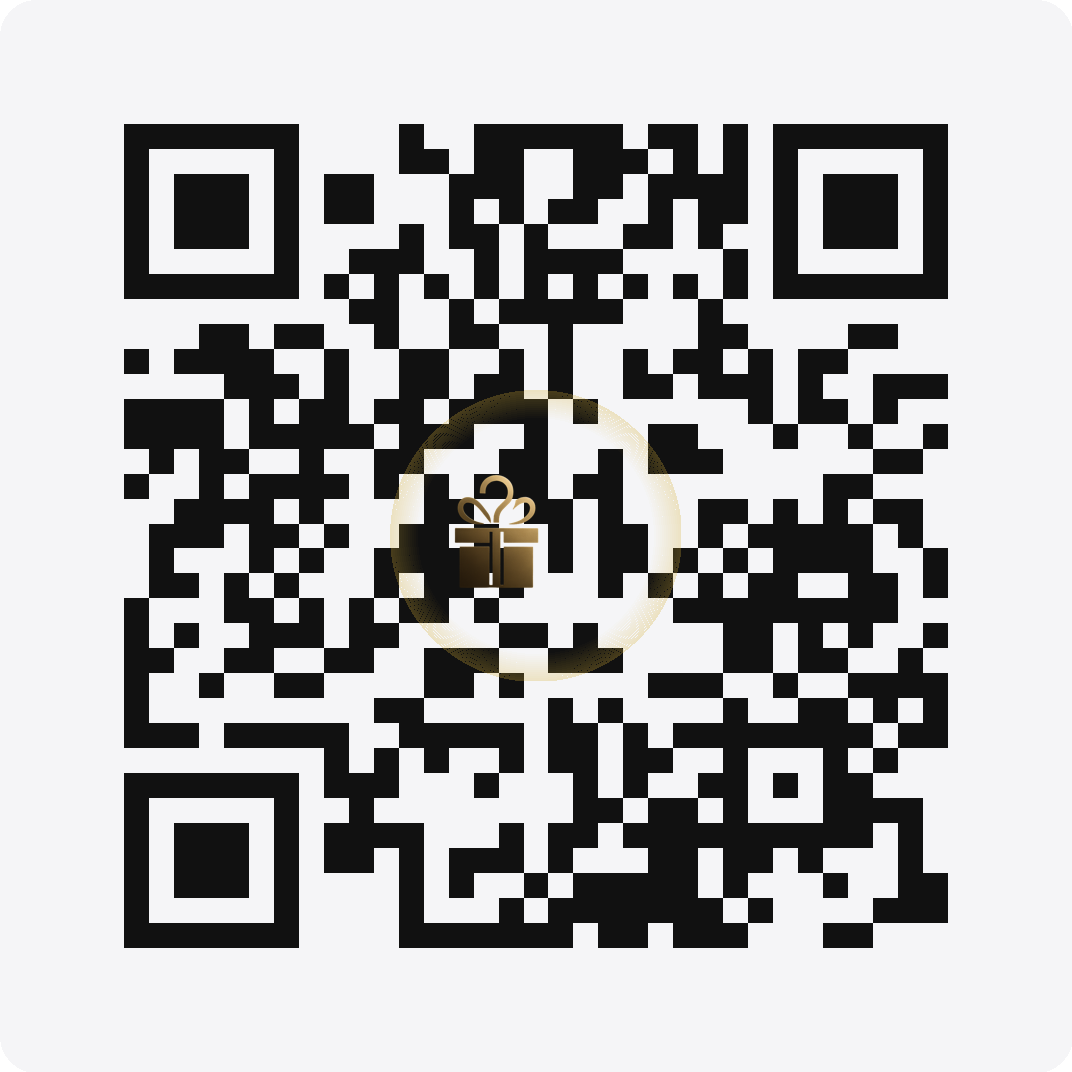
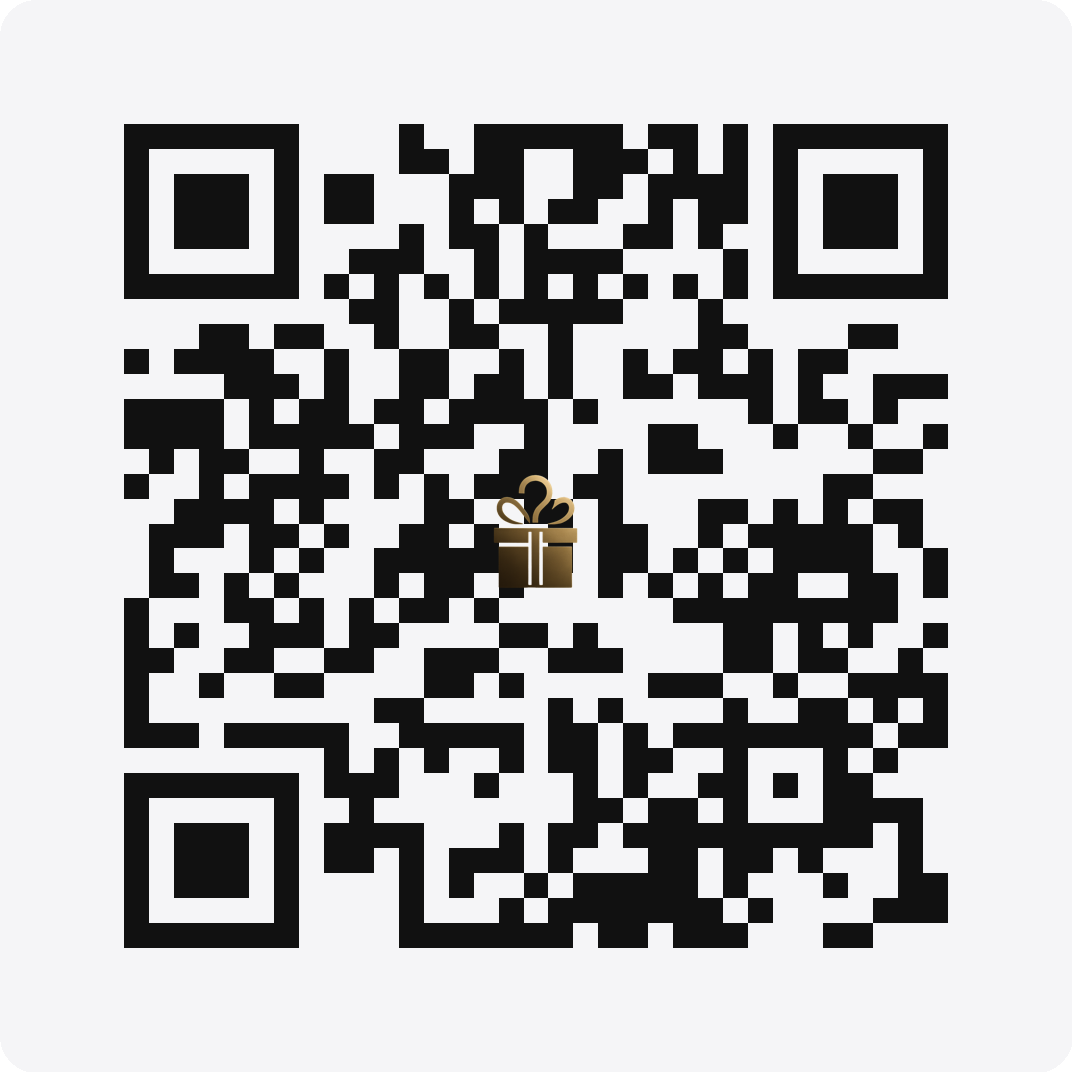
QR maps + /c routes

diff --git a/tools/qr_generator/make_qrs_styled.py b/tools/qr_generator/make_qrs_styled.py
@@ -5,38 +5,34 @@
 # Erzeugt QR-Codes im Dark-Style:
 # - Variante A: Standard (dunkel auf hell) + HALO (heller Freisteller) für dunkle Hintergründe
 # - Variante B: ECHT invertiert (hell auf dunkel) – mit Hinweis: weniger robust
-# - Logo: freigestellt/transparent, mittig (kein Teller) + optional goldener Glow
+# - Logo: freigestellt/transparent, mittig (kein Teller)
 #
-# Usage:
-# python make_qrs_styled.py --map qr_map_dark.json --out qr_out_dark_theme \
-#   --fg "#111111" --bg "#f5f5f7" --halo 24 --halo-color "#f5f5f7" \
-#   --logo "assets/tmc_logo.png" --logo-scale 0.22 --size 1024 --border 4
+# Usage-Beispiele siehe README / Befehlszeilen-Flags unten.
 
 import os, json
 from PIL import Image, ImageDraw, ImageOps
 import qrcode
 from qrcode.constants import ERROR_CORRECT_H
 
-# ---------- Standard-Konfiguration ----------
+# ---------- Konfiguration ----------
 DEFAULTS = {
     "out_dir": "qr_out_dark",
-    "size_px": 1024,           # Endgröße in Pixel
-    "box_size": 20,            # QR-Modulgröße
+    "size_px": 1024,           # endgültige Kantenlänge
+    "box_size": 20,            # QR-Modulgröße (wird von qrcode verwendet)
     "border": 4,               # Ruhezone (in Modulen)
     "error_correction": ERROR_CORRECT_H,
     # Farben
-    "fg": "#111111",           # QR-Vordergrund
-    "bg": "#f5f5f7",           # QR-Hintergrund
-    # HALO (heller Rand für dunkle Umgebungen)
-    "halo_px": 0,              # 0 = aus | 12–24 = weich
+    "fg": "#111111",           # Vordergrund (Module)
+    "bg": "#f5f5f7",           # Hintergrund (Ruhezone)
+    # HALO: Helle Fläche hinter dem QR (für Variante A)
+    "halo_px": 0,              # 0 = aus | 12..24 sehr gut | 0 = echte Invertierung möglich
     "halo_color": "#f5f5f7",
-    "halo_radius": 36,
-    # Logo
-    "logo_path": None,         # z.B. "assets/tmc_logo.png"
-    "logo_scale": 0.22,        # Anteil am QR (0.2 = 20%)
+    "halo_radius": 36,         # Rundung des Halo-Rechtecks
+    # Logo (freigestellt)
+    "logo_path": None,         # z.B. "assets/tmc_logo.png" (PNG mit Transparenz empfohlen)
+    "logo_scale": 0.22,        # Anteil an der QR-Kantenlänge
 }
 
-# ---------- QR-Code-Erstellung ----------
 def make_qr(url, cfg):
     qr = qrcode.QRCode(
         version=None,
@@ -47,63 +43,47 @@ def make_qr(url, cfg):
     qr.add_data(url)
     qr.make(fit=True)
     img = qr.make_image(fill_color=cfg["fg"], back_color=cfg["bg"]).convert("RGBA")
+
+    # auf gewünschte Größe skalieren
     img = img.resize((cfg["size_px"], cfg["size_px"]), Image.NEAREST)
 
-    # HALO: heller Freisteller-Hintergrund (optional)
+    # HALO (Variante A): heller Freisteller hinter den QR kleben (für dunkle Umgebungen)
     if cfg["halo_px"] > 0:
         pad = cfg["halo_px"]
         W = cfg["size_px"] + pad * 2
         H = cfg["size_px"] + pad * 2
         canvas = Image.new("RGBA", (W, H), (0, 0, 0, 0))
+        # abgerundetes helles Rechteck
         rr = cfg["halo_radius"]
         halo = Image.new("RGBA", (W, H), (0, 0, 0, 0))
         d = ImageDraw.Draw(halo)
         d.rounded_rectangle([0, 0, W, H], radius=rr, fill=cfg["halo_color"])
         canvas.alpha_composite(halo, (0, 0))
+        # QR drauf
         canvas.alpha_composite(img, (pad, pad))
         img = canvas
 
-    # Logo freigestellt + goldener Glow
+    # Logo freigestellt (kein Teller): transparentes PNG empfohlen
     if cfg["logo_path"] and os.path.exists(cfg["logo_path"]):
         logo = Image.open(cfg["logo_path"]).convert("RGBA")
         L = int(min(img.size) * cfg["logo_scale"])
+        # Logo proportional einpassen
         logo = ImageOps.contain(logo, (L, L))
 
-        # goldener Glow erzeugen
-        glow_radius = int(L * 0.12)
-        glow = Image.new("RGBA", (L + glow_radius * 2, L + glow_radius * 2), (0, 0, 0, 0))
-        draw = ImageDraw.Draw(glow)
-
-        # Goldton (dezent transparent)
-        gold_color = (212, 175, 55, 90)
-        for r in range(glow_radius, 0, -2):
-            alpha = int(70 * (r / glow_radius))
-            color = (gold_color[0], gold_color[1], gold_color[2], alpha)
-            draw.ellipse(
-                (glow_radius - r, glow_radius - r, glow_radius + L + r, glow_radius + L + r),
-                outline=color,
-                width=2,
-            )
-
-        # Logo auf Glow-Ebene mittig setzen
-        glow.alpha_composite(logo, (glow_radius, glow_radius))
-
-        # Glow mittig auf QR platzieren
-        x = (img.size[0] - glow.size[0]) // 2
-        y = (img.size[1] - glow.size[1]) // 2
-        img.alpha_composite(glow, (x, y))
+        # mittig auf QR setzen
+        x = (img.size[0] - logo.size[0]) // 2
+        y = (img.size[1] - logo.size[1]) // 2
+        img.alpha_composite(logo, (x, y))
 
     return img
 
-# ---------- Speichern ----------
 def save_png(img, path):
     os.makedirs(os.path.dirname(path), exist_ok=True)
     img.save(path, optimize=True)
 
-# ---------- Main ----------
 def main():
     import argparse
-    p = argparse.ArgumentParser(description="Erzeuge Dark-Style QR-Codes (Halo optional, invertierbar, mit Glow)")
+    p = argparse.ArgumentParser(description="Erzeuge Dark-Style QR-Codes (Halo-Option, invertierbar, Logo freigestellt)")
     p.add_argument("--map", help="JSON-Datei: [{'name':'Mannheim-01','url':'https://themysterycode.de/c/101'}, ...]")
     p.add_argument("--out", default=DEFAULTS["out_dir"])
     p.add_argument("--fg", default=DEFAULTS["fg"])
@@ -134,7 +114,7 @@ def main():
 
     for e in entries:
         name = e["name"]
-        url = e["url"]
+        url  = e["url"]
         img = make_qr(url, cfg)
         out_path = os.path.join(args.out, f"{name}.png")
         save_png(img, out_path)
